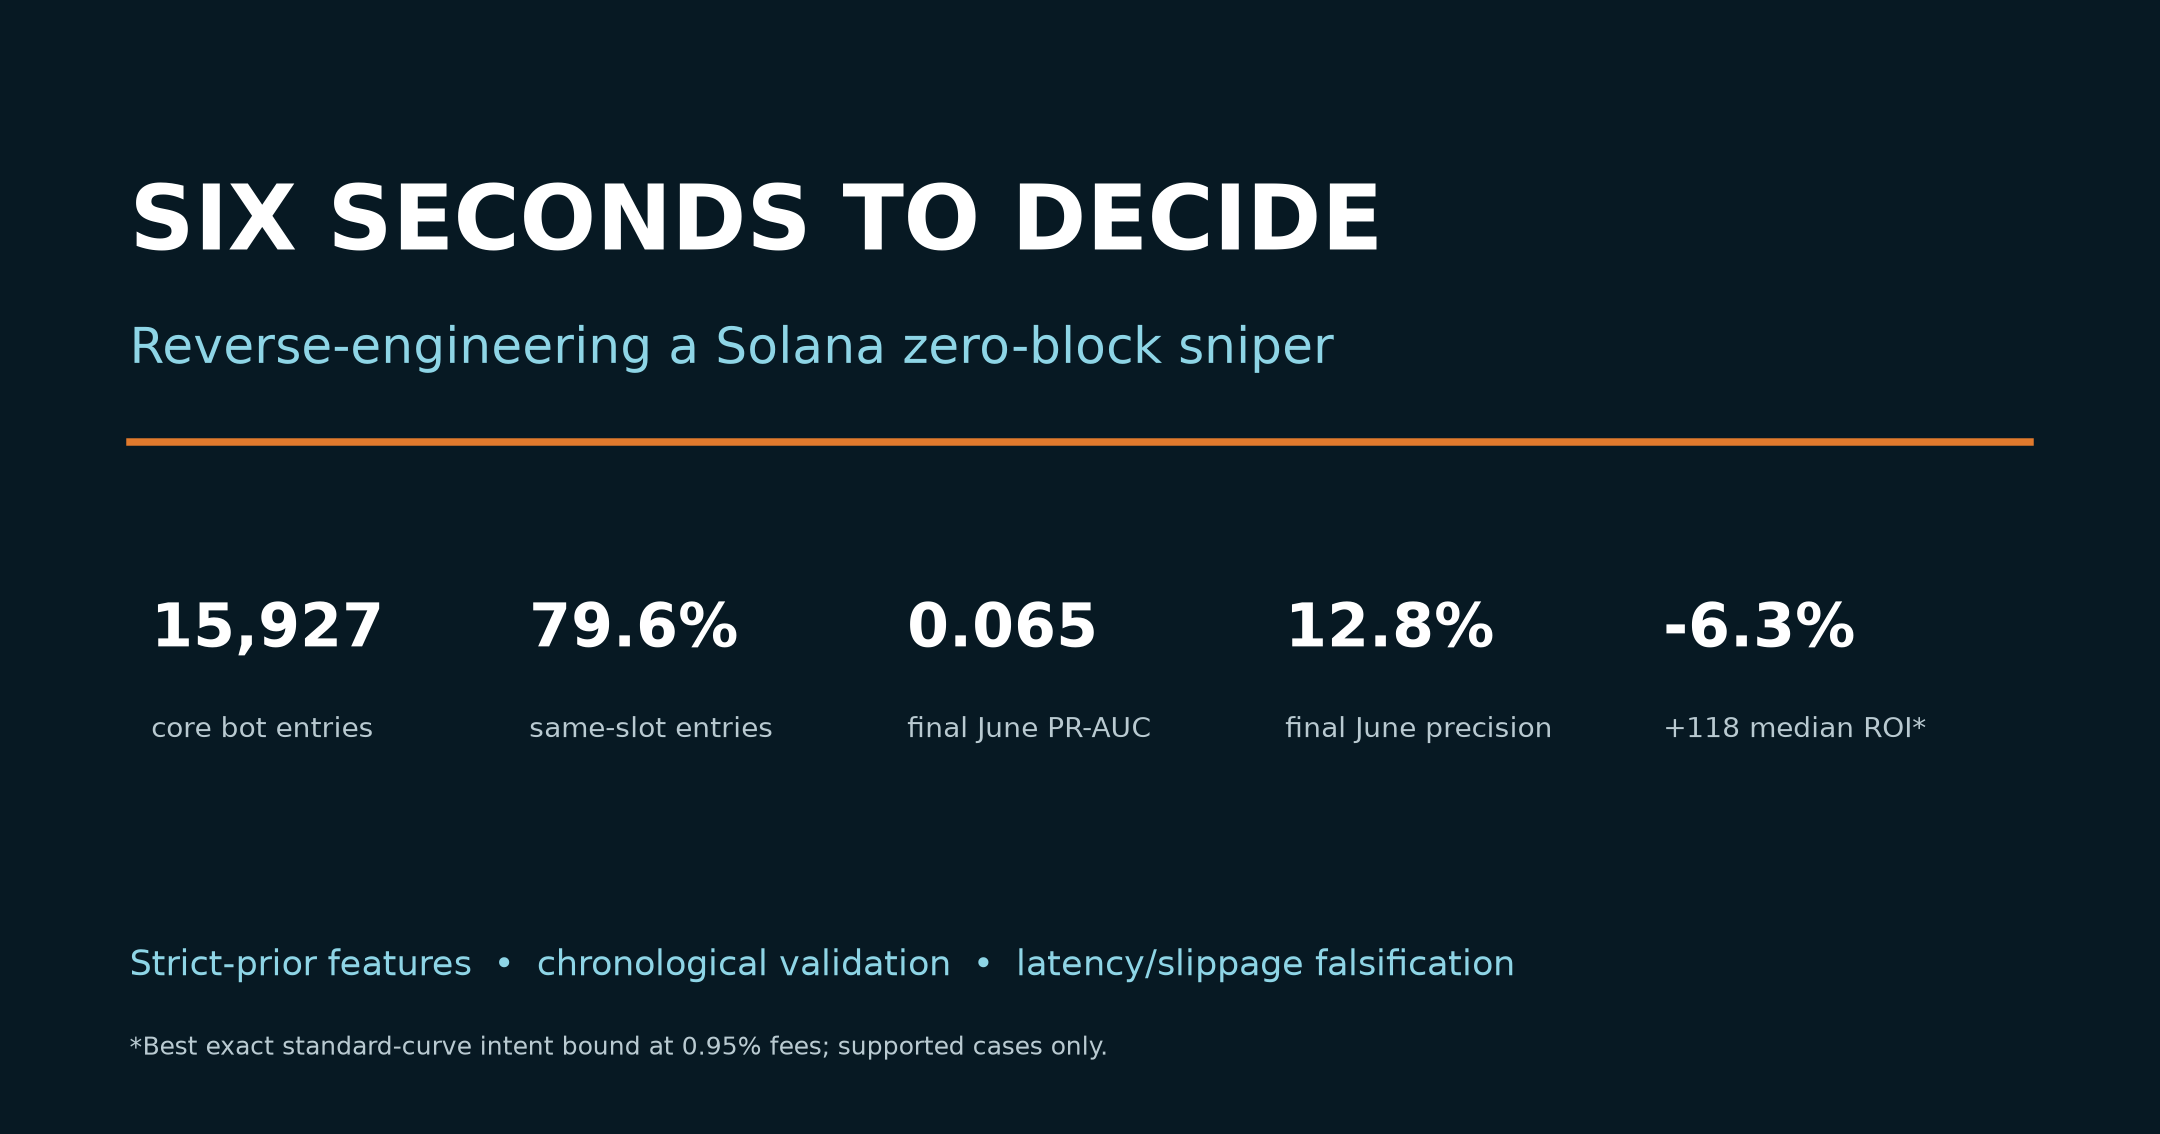
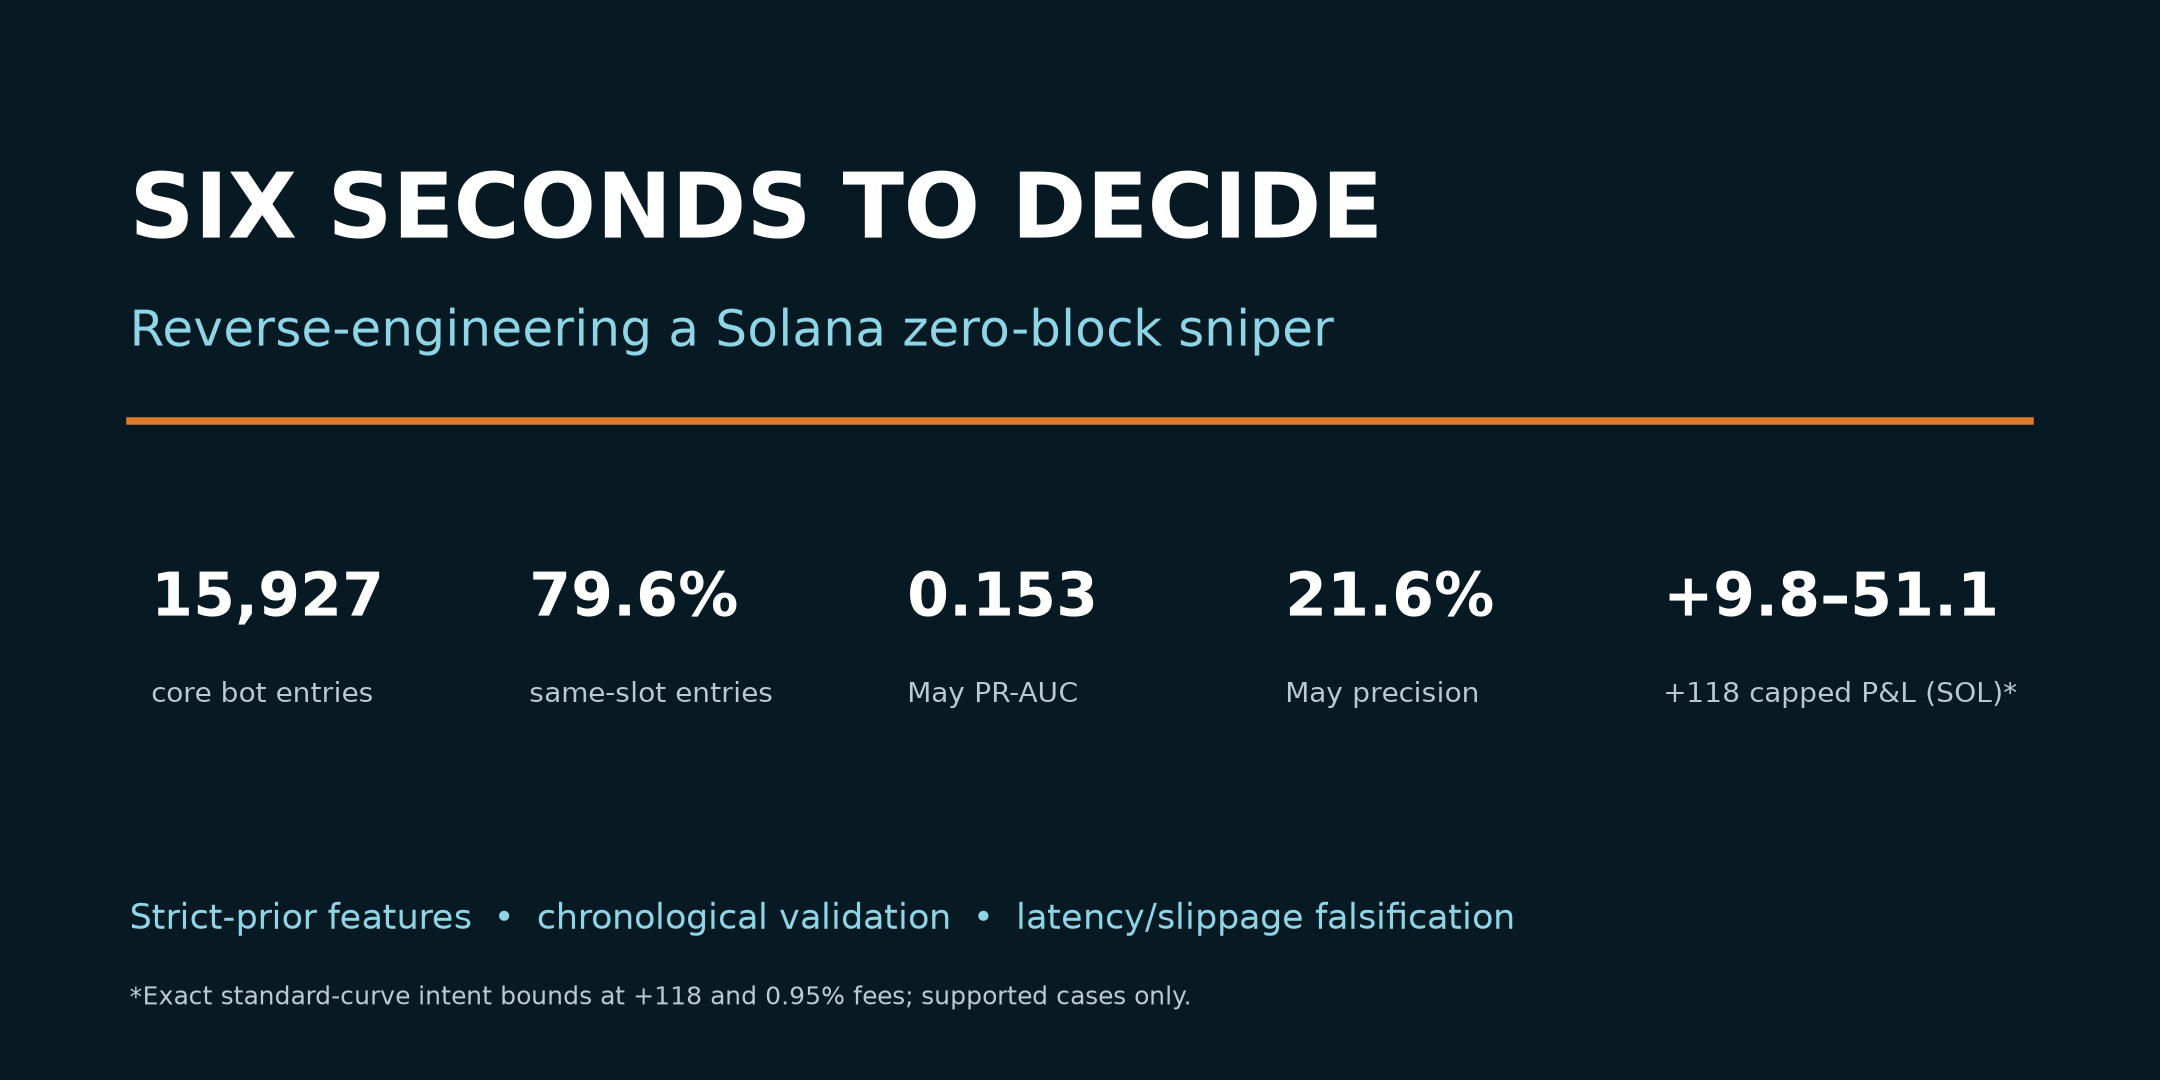
Cover change

diff --git a/scripts/build_submission.py b/scripts/build_submission.py
@@ -66,35 +66,81 @@ def build_final_selector_explainability() -> None:
 
 
 def build_cover() -> None:
-    behavior = json.loads((SUBMISSION / "tables" / "behavior_summary.json").read_text())
-    final_selector = json.loads(
-        (SUBMISSION / "tables" / "developer_sell_outcome_results.json").read_text()
-    )["june_reporting_only"]["creator_fee_plus_developer_sell"]
-    curve = json.loads((SUBMISSION / "tables" / "curve_replay_results.json").read_text())
-    selective = curve["results"]["offset_118"]["selective_two_stage"]
-    best_median = max(
-        selective[intent]["fee_0.0095"]["median_net_roi"]
-        for intent in ("fixed_quote", "fixed_token")
+    behavior = json.loads(
+        (SUBMISSION / "tables" / "behavior_summary.json").read_text()
     )
-    fig = plt.figure(figsize=(12, 6.3), facecolor="#071923")
+
+    final_results = json.loads(
+        (SUBMISSION / "tables" / "developer_sell_outcome_results.json").read_text()
+    )
+    may_selector = final_results["windows"]["may"]["creator_fee_plus_developer_sell"]
+
+    curve = json.loads(
+        (SUBMISSION / "tables" / "curve_replay_results.json").read_text()
+    )
+    selective = curve["results"]["offset_118"]["selective_two_stage"]
+
+    pnl_low = selective["fixed_quote"]["fee_0.0095"][
+        "p99_capped_total_pnl_sol_supported"
+    ]
+    pnl_high = selective["fixed_token"]["fee_0.0095"][
+        "p99_capped_total_pnl_sol_supported"
+    ]
+
+    # 2:1 ratio matches Kaggle's 560x280 card requirement.
+    fig = plt.figure(figsize=(12, 6), facecolor="#071923")
     ax = fig.add_axes([0, 0, 1, 1])
     ax.set_axis_off()
-    ax.text(0.06, 0.78, "SIX SECONDS TO DECIDE", fontsize=36, weight="bold", color="white")
-    ax.text(0.06, 0.68, "Reverse-engineering a Solana zero-block sniper", fontsize=20, color="#8ED5E6")
-    ax.plot([0.06, 0.94], [0.61, 0.61], color="#E07A2D", linewidth=3)
+
+    ax.text(
+        0.06, 0.78,
+        "SIX SECONDS TO DECIDE",
+        fontsize=36,
+        weight="bold",
+        color="white",
+    )
+    ax.text(
+        0.06, 0.68,
+        "Reverse-engineering a Solana zero-block sniper",
+        fontsize=20,
+        color="#8ED5E6",
+    )
+
+    ax.plot(
+        [0.06, 0.94],
+        [0.61, 0.61],
+        color="#E07A2D",
+        linewidth=3,
+    )
+
     ax.set_xlim(0, 1)
     ax.set_ylim(0, 1)
+
     cards = [
         ("15,927", "core bot entries"),
         (f"{behavior['zero_slot']['share']:.1%}", "same-slot entries"),
-        (f"{final_selector['pr_auc']:.3f}", "final June PR-AUC"),
-        (f"{final_selector['precision']:.1%}", "final June precision"),
-        (f"{best_median:.1%}", "+118 median ROI*"),
+        (f"{may_selector['pr_auc']:.3f}", "May PR-AUC"),
+        (f"{may_selector['precision']:.1%}", "May precision"),
+        (f"+{pnl_low:.1f}–{pnl_high:.1f}", "+118 capped P&L (SOL)*"),
     ]
+
     x_positions = [0.07, 0.245, 0.42, 0.595, 0.77]
+
     for x, (value, label) in zip(x_positions, cards, strict=True):
-        ax.text(x, 0.43, value, fontsize=24, weight="bold", color="white")
-        ax.text(x, 0.35, label, fontsize=11, color="#B9CAD1")
+        ax.text(
+            x, 0.43,
+            value,
+            fontsize=24,
+            weight="bold",
+            color="white",
+        )
+        ax.text(
+            x, 0.35,
+            label,
+            fontsize=11,
+            color="#B9CAD1",
+        )
+
     ax.text(
         0.06,
         0.14,
@@ -102,16 +148,21 @@ def build_cover() -> None:
         fontsize=14,
         color="#8ED5E6",
     )
+
     ax.text(
         0.06,
         0.07,
-        "*Best exact standard-curve intent bound at 0.95% fees; supported cases only.",
+        "*Exact standard-curve intent bounds at +118 and 0.95% fees; supported cases only.",
         fontsize=10,
         color="#B9CAD1",
     )
-    fig.savefig(SUBMISSION / "figures" / "cover.png", dpi=180, facecolor=fig.get_facecolor())
-    plt.close(fig)
 
+    fig.savefig(
+        SUBMISSION / "figures" / "cover.png",
+        dpi=180,
+        facecolor=fig.get_facecolor(),
+    )
+    plt.close(fig)
 
 def build_third_pass_summary() -> None:
     historical = json.loads((SUBMISSION / "tables" / "historical_outcome_audit.json").read_text())
